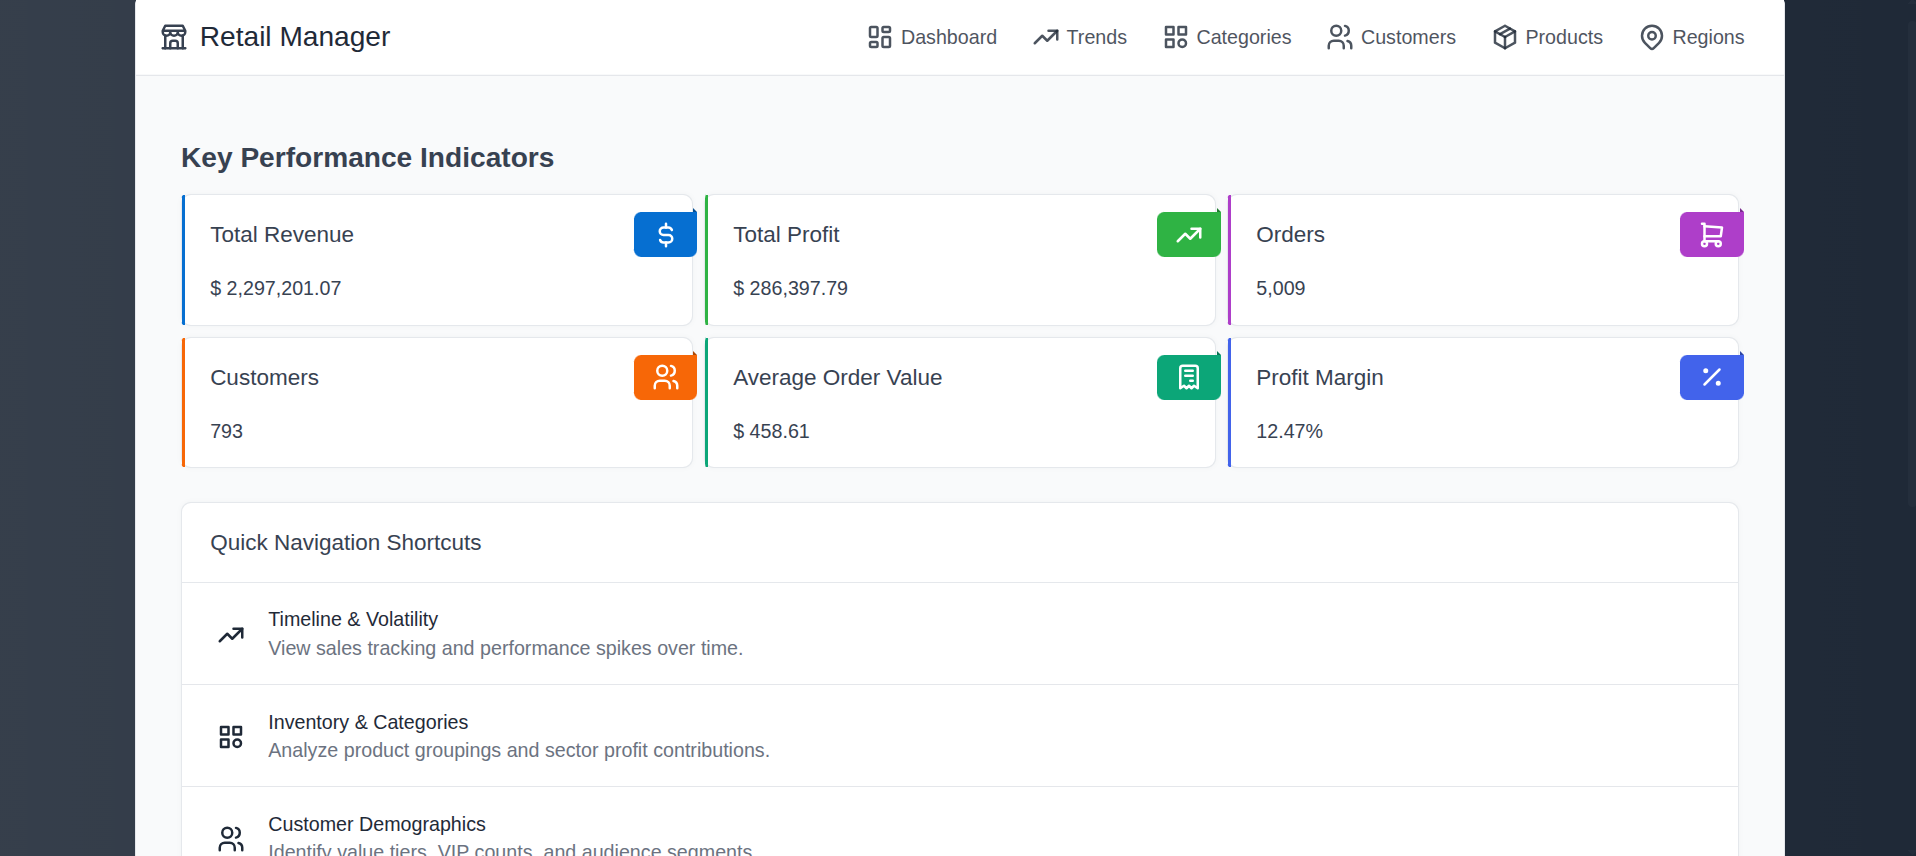
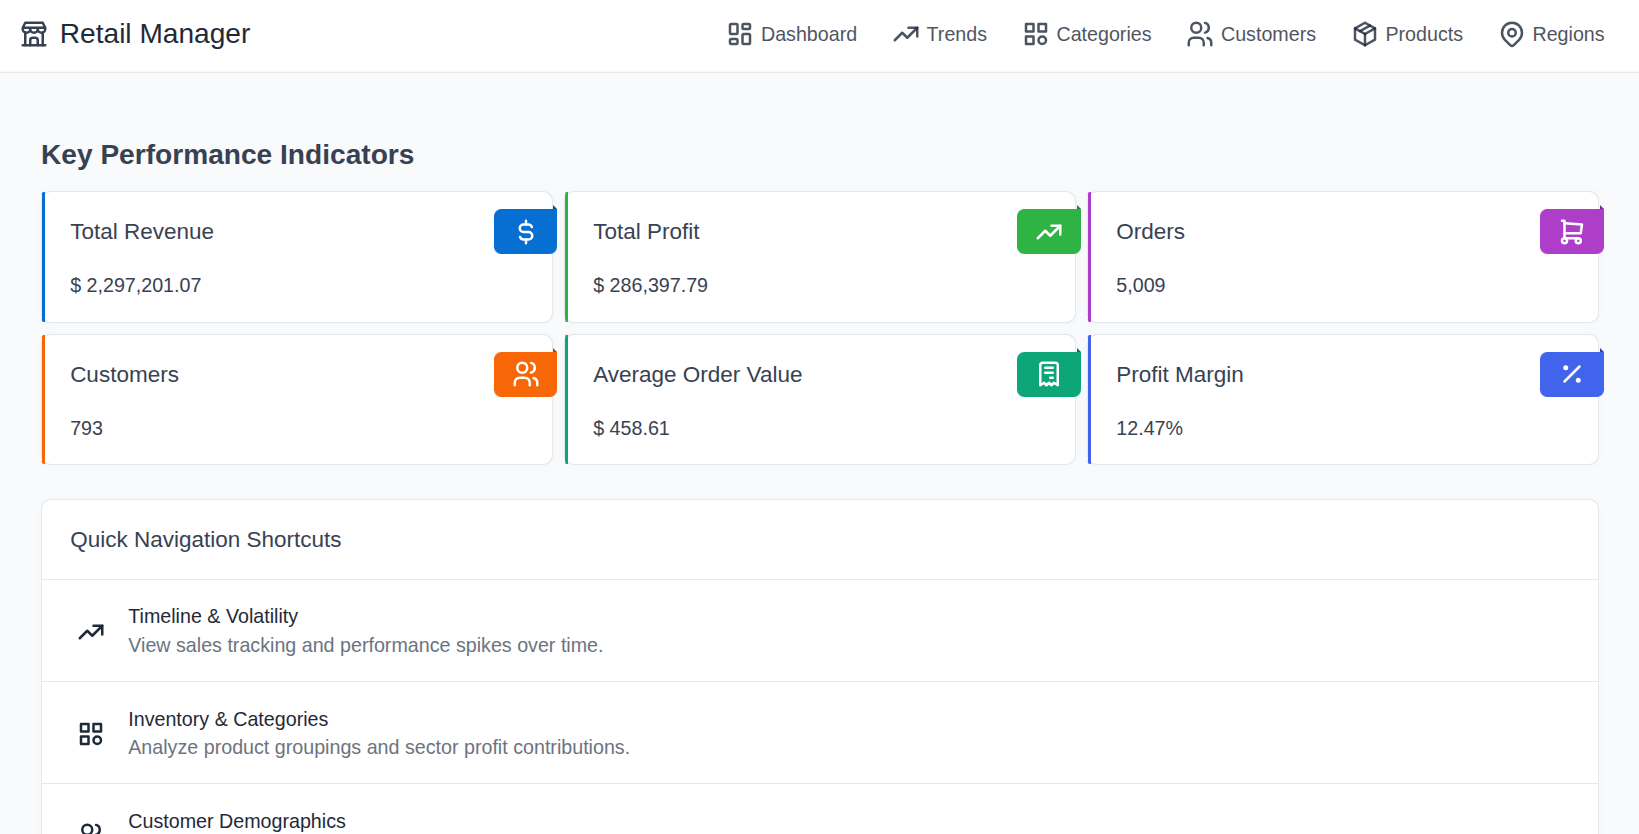
assets(projects): replace dashboard preview images with updated screenshots

diff --git a/src/index.css b/src/index.css
@@ -139,7 +139,7 @@
         .dashboard-preview img {
             width:100%;
             height:100%;
-            object-fit:cover;
+            object-fit:contain;
             border-radius:3px;
             display:block;
             transition:transform .3s ease;